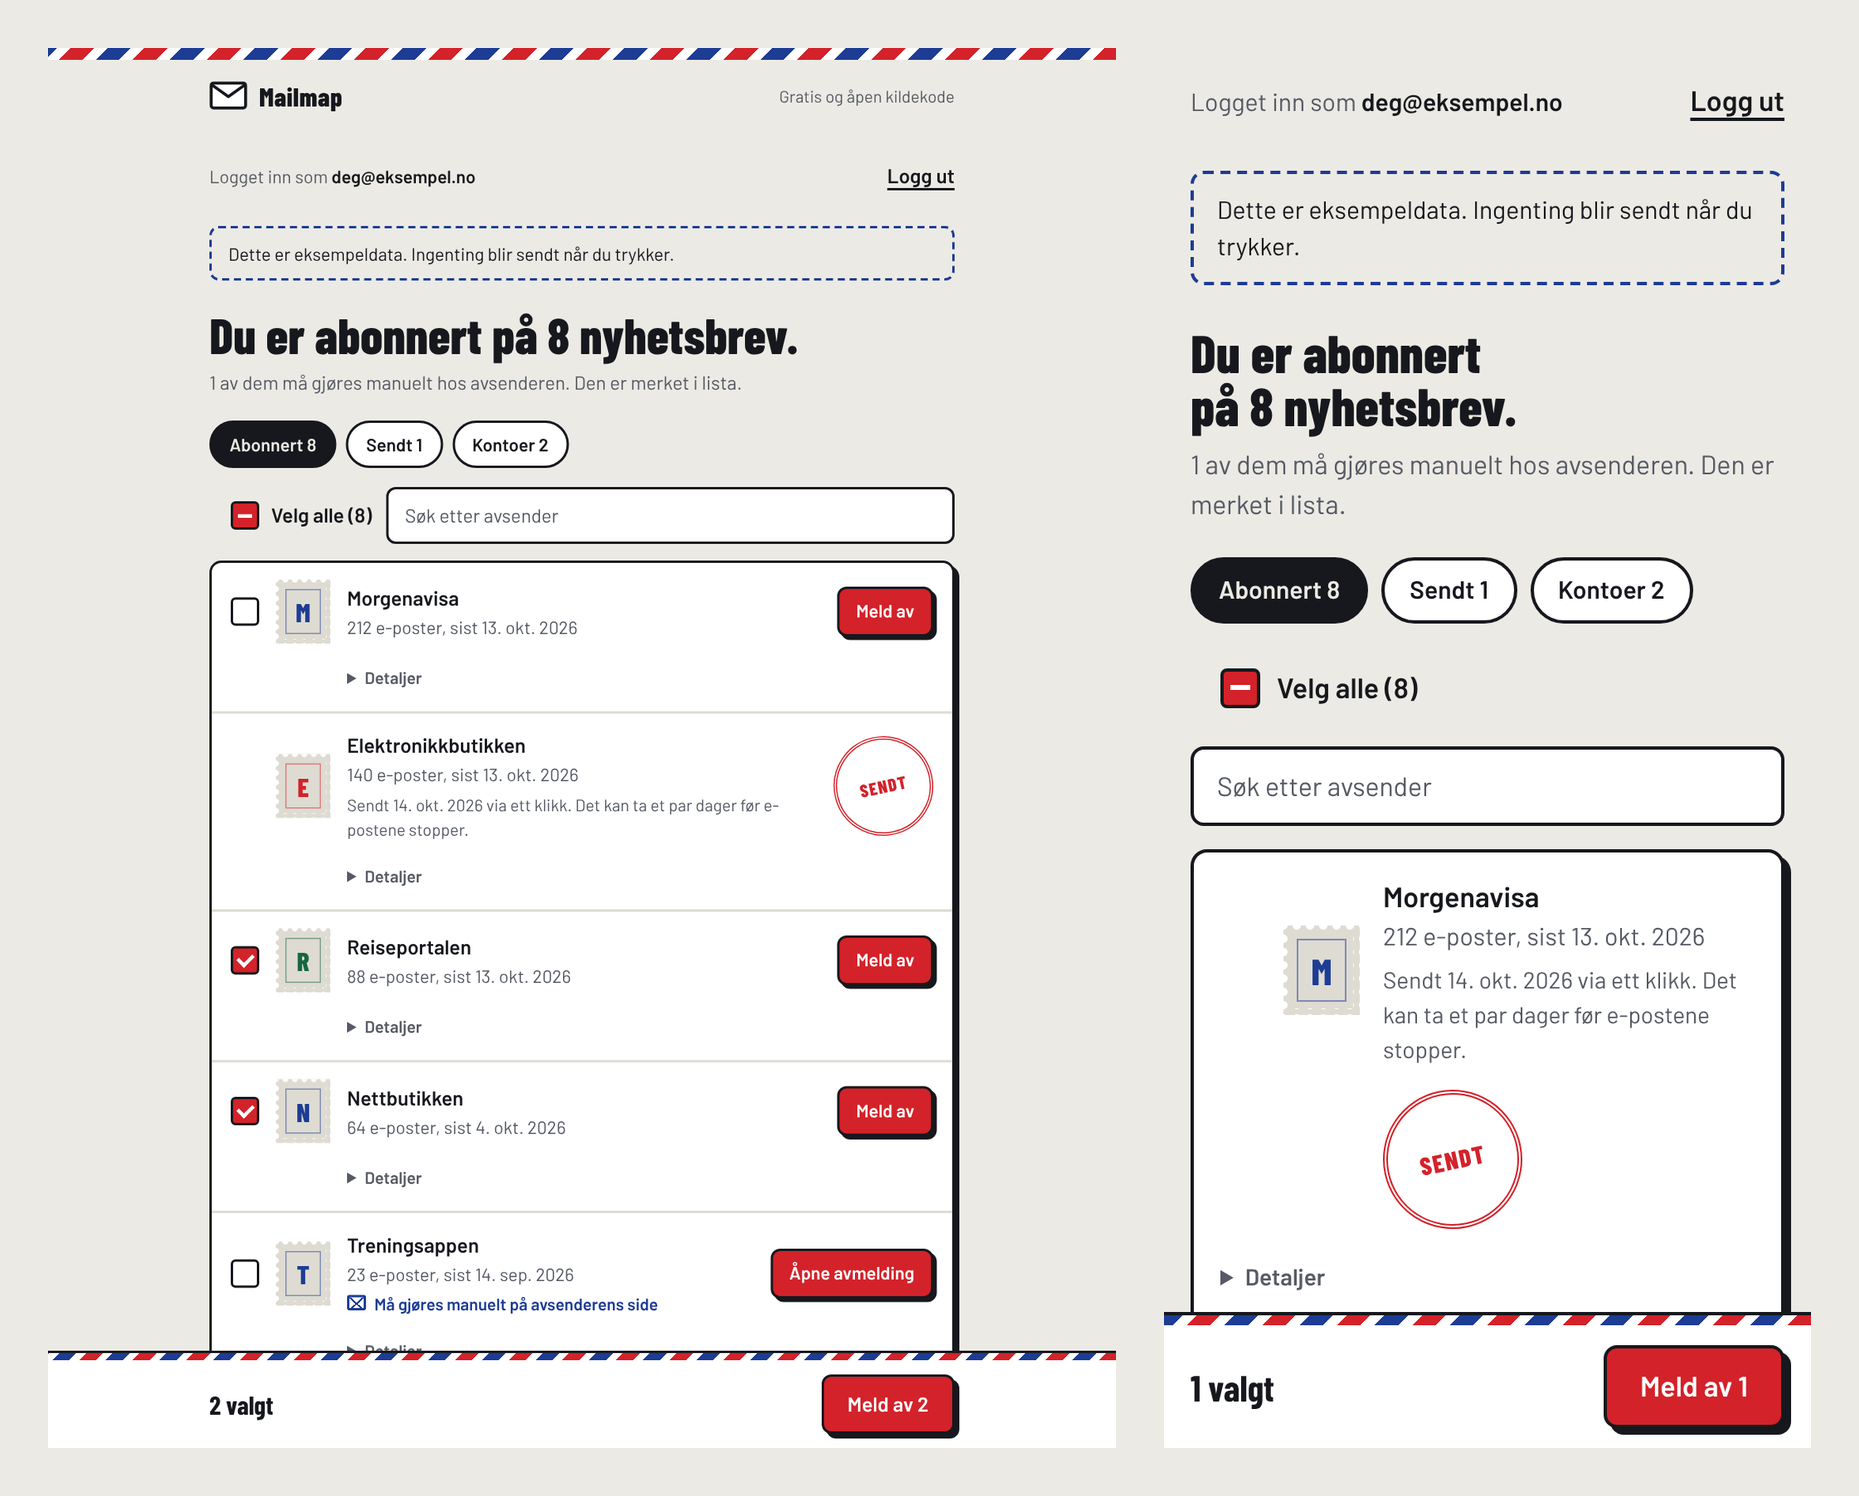
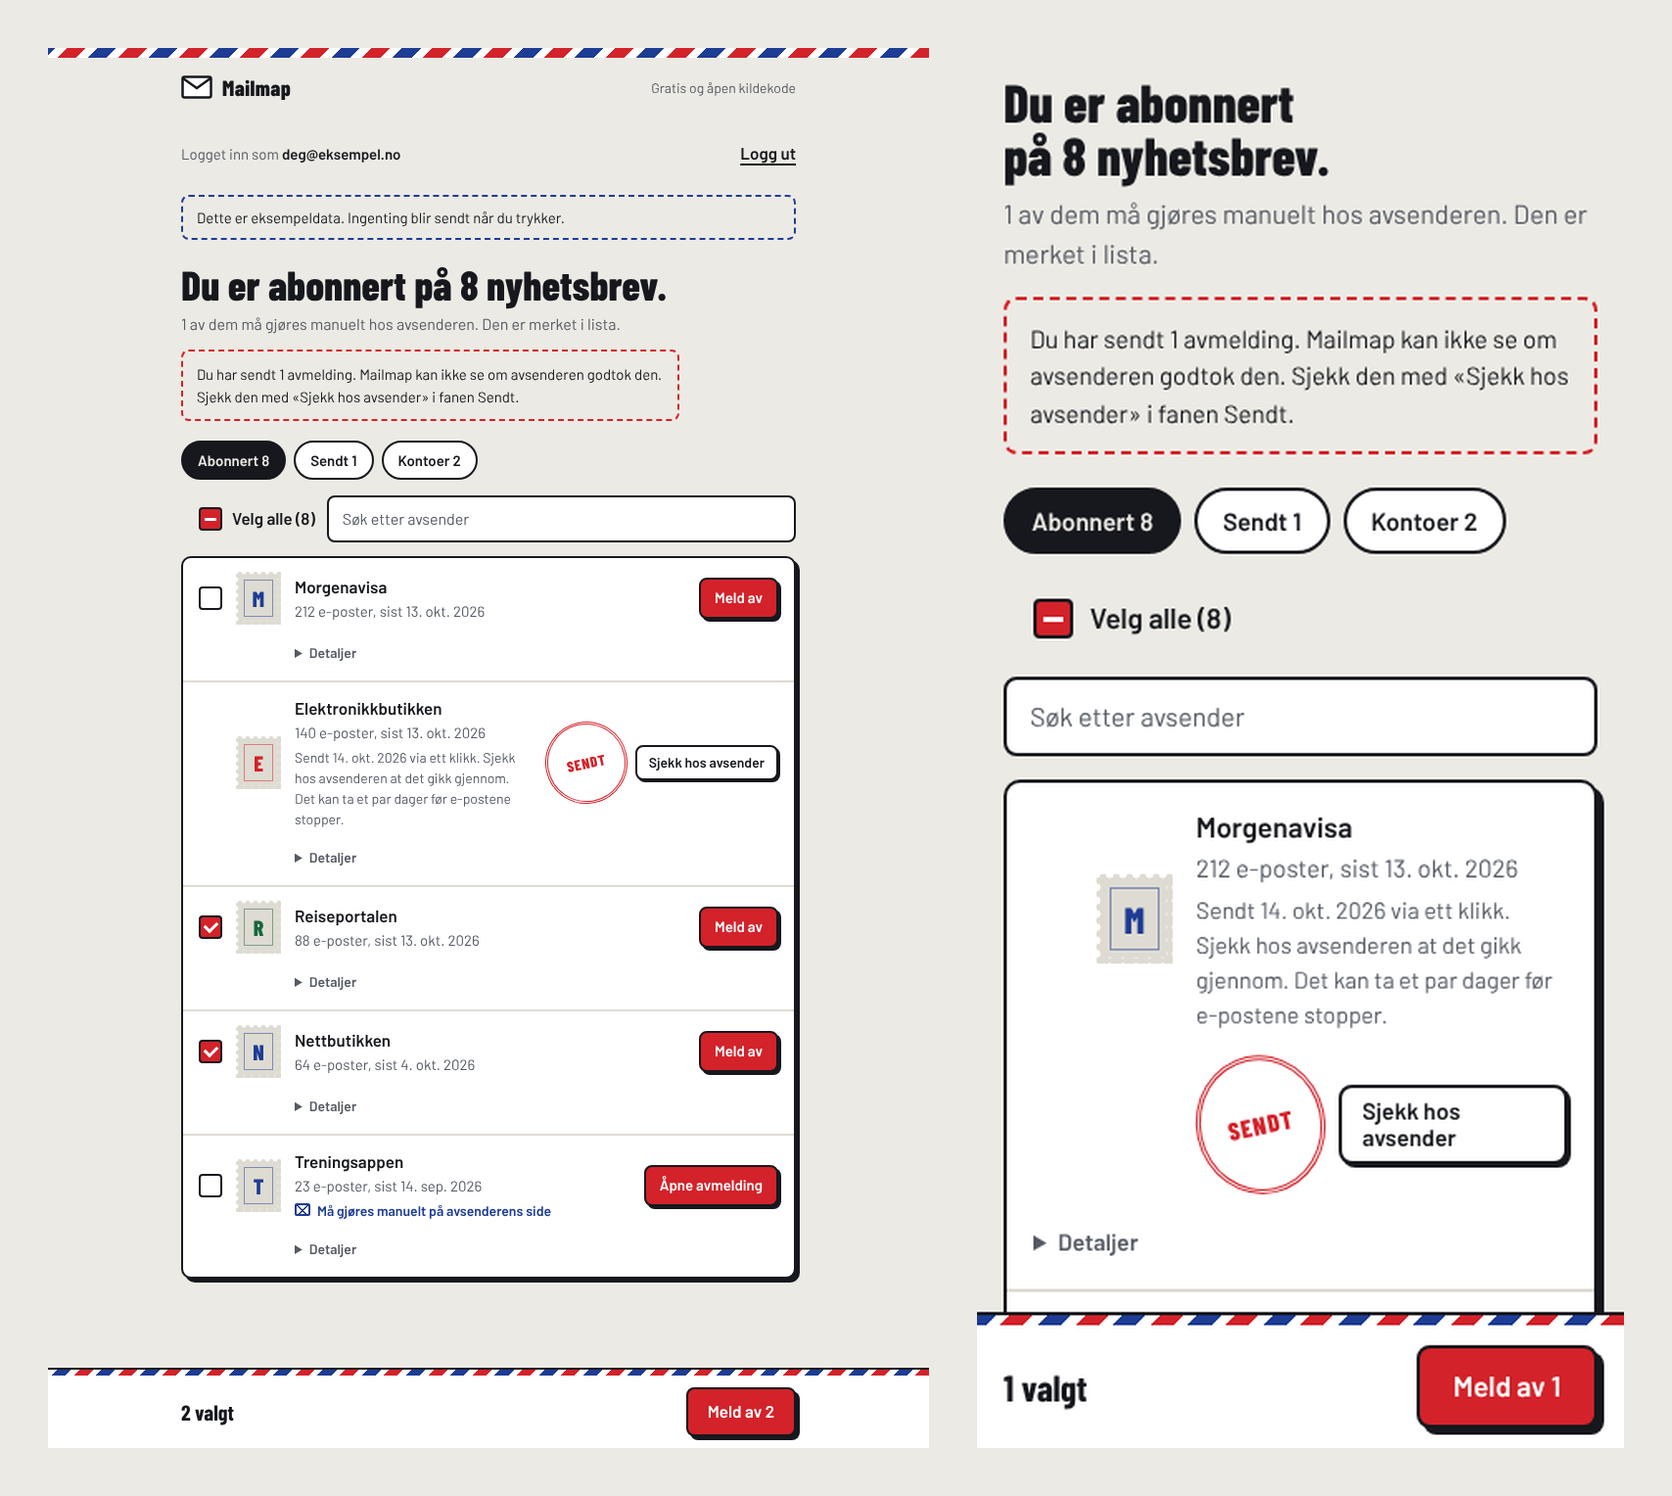
Position Mailmap as an overview first; ask the user to check each unsubscribe
- Landing: 'Alle nyhetsbrevene dine, samlet på ett sted', and say up front that
  some senders need confirmation on their own page
- After unsubscribing: banner and toast explaining that each sender should be
  checked, plus a visible 'Sjekk hos avsender' button on every sent row;
  checked senders are remembered
- Demo links are real anchors so they are keyboard reachable
- README intro and screenshots updated

Claude-Session: https://claude.ai/code/session_01XbGBdyfTHEKzCp5Y8JLQWF

Changed region(s): [[0.0311, 0.0307, 0.9641, 0.984], [0.9019, 0.0615, 0.9641, 0.0922]]

diff --git a/web/app.js b/web/app.js
@@ -364,6 +364,11 @@ function render(){
   $("manualNote").textContent = manualCount === 1
     ? "1 av dem må gjøres manuelt hos avsenderen. Den er merket i lista."
     : `${manualCount} av dem må gjøres manuelt hos avsenderen. De er merket i lista.`;
+  const unchecked = items.filter(s => state[s.id] === "done" && !stillSending(s) && sentLog[s.id] && !sentLog[s.id].checked && verdict(s) !== "quiet");
+  $("checkNote").hidden = !unchecked.length;
+  $("checkNote").textContent = unchecked.length === 1
+    ? "Du har sendt 1 avmelding. Mailmap kan ikke se om avsenderen godtok den. Sjekk den med «Sjekk hos avsender» i fanen Sendt."
+    : `Du har sendt ${unchecked.length} avmeldinger. Mailmap kan ikke se om hver avsender godtok dem. Sjekk hver enkelt med «Sjekk hos avsender» i fanen Sendt.`;
   const [a, b, c] = $("tabs").children;
   a.textContent = `Abonnert ${subs.length}`; b.textContent = `Sendt ${done.length}`; c.textContent = `Kontoer ${acc.length}`;
   [...$("tabs").children].forEach(x => x.setAttribute("aria-pressed", x.dataset.v === view));
@@ -414,17 +419,26 @@ function subRow(s){
   else if (isDone && e) {
     const v = verdict(s), via = (e.via || []).map(x => VIA[x]).filter(Boolean).join(" og ");
     const when = e.t ? `Sendt ${nb.format(e.t)}${via ? " via " + via : ""}. ` : "";
-    who.append(el("span", "note " + v, when + (v === "quiet" ? "Ingen nye e-poster siden." : v === "wait" ? "Det kan ta et par dager før e-postene stopper." : "")));
+    const tail = v === "quiet" ? "Ingen nye e-poster siden."
+      : e.checked ? "Du har sjekket hos avsenderen."
+      : "Sjekk hos avsenderen at det gikk gjennom. Det kan ta et par dager før e-postene stopper.";
+    who.append(el("span", "note " + (e.checked && v !== "quiet" ? "quiet" : v), when + tail));
   }
   const act = el("div","act");
   const pageLink = (label, cls) => {
     const a = el("a", "btn " + cls, label);
     if (href && session.provider !== Demo) { a.href = href; a.target = "_blank"; a.rel = "noopener noreferrer"; }
+    else a.href = "#";   // demo: keep it a real, keyboard-reachable link, but go nowhere
     a.onclick = ev => { if (session.provider === Demo) ev.preventDefault(); copyEmail(); };
     return a;
   };
   if (isDone) {
     act.append(el("span", fresh.has(s.id) ? "state" : "state still", "Sendt")); fresh.delete(s.id);
+    if (href && !(e && e.checked) && verdict(s) !== "quiet") {
+      const c = pageLink("Sjekk hos avsender", "small"), open = c.onclick;
+      c.onclick = ev => { open(ev); if (e) { e.checked = true; saveDone(); } stay.add(s.id); render(); };
+      act.append(c);
+    }
   } else if (st === "busy") act.append(el("span","state wait","Sender …"));
   else if (st === "fail") {
     act.append(el("span","state bad","Feilet"));
@@ -453,7 +467,7 @@ function subRow(s){
   if (e && e.t) row("Sendt", new Date(e.t).toLocaleString("nb-NO"));
   if (s.last) row("Siste e-post", new Date(s.last).toLocaleString("nb-NO"));
   det.append(sum, dl);
-  if (isDone && href) det.append(pageLink("Sjekk hos avsender", "small"));
+  if (isDone && href) det.append(pageLink("Åpne avsenderens side", "small"));
   const cp = el("button","btn small","Kopier detaljer");
   cp.onclick = async () => {
     const text = [...dl.children].reduce((acc, x, i, arr) => i % 2 ? acc : acc + x.textContent + ": " + arr[i+1].textContent + "\n", s.name + "\n");
@@ -493,7 +507,7 @@ async function run(list){
     saveDone(); render();
   });
   if (manual.length) toast(`${manual.length} avsender${manual.length === 1 ? "" : "e"} krever at du bekrefter på deres side. Trykk «Åpne avmelding» på dem.`);
-  else if (ok && !bad) toast(`Avmelding sendt til ${ok === 1 ? "1 avsender" : ok + " avsendere"}. Åpne Mailmap igjen om et par dager for å se om de har stoppet.`);
+  else if (ok && !bad) toast(`Avmelding sendt til ${ok === 1 ? "1 avsender" : ok + " avsendere"}. Sjekk hver enkelt hos avsenderen for å være sikker.`);
   else if (bad) toast(`${bad} feilet. Trykk «Prøv igjen».`);
 }
 

diff --git a/web/index.html b/web/index.html
@@ -131,6 +131,8 @@ h2{font:800 clamp(32px,7vw,42px)/1 var(--display);margin:0;text-wrap:balance}
 .who .manual::before{content:"";display:inline-block;width:12px;height:9px;margin-right:7px;vertical-align:0;border:2px solid var(--blue);border-radius:2px;
   background:linear-gradient(to bottom right,transparent 46%,var(--blue) 46% 54%,transparent 54%) ,linear-gradient(to bottom left,transparent 46%,var(--blue) 46% 54%,transparent 54%);background-size:100% 120%;background-repeat:no-repeat}
 .manualnote{margin:8px 0 0;font-size:16px;color:var(--mute)}
+.checknote{margin:14px 0 0;padding:12px 14px;border:2px dashed var(--red);border-radius:8px;font-size:15px;color:var(--ink);max-width:60ch}
+.act .btn.small{min-height:36px}
 .who .note.quiet{color:var(--ok);font-weight:600}
 .det{flex-basis:100%;margin-left:98px;font-size:14px;color:var(--mute)}
 .det summary{cursor:pointer;width:max-content;font-weight:600;color:var(--mute);padding:4px 0}
@@ -169,8 +171,8 @@ h2{font:800 clamp(32px,7vw,42px)/1 var(--display);margin:0;text-wrap:balance}
   <header class="mast"><span class="logo"><svg viewBox="0 0 32 24" aria-hidden="true"><rect x="1.5" y="1.5" width="29" height="21" rx="2" fill="var(--card)" stroke="var(--ink)" stroke-width="2.5"/><path d="M2 3l14 10L30 3" fill="none" stroke="var(--ink)" stroke-width="2.5" stroke-linejoin="round"/></svg>Mailmap</span><small>Gratis og åpen kildekode</small></header>
   <!-- 1. sign in -->
   <section id="vStart">
-    <h1>Rydd opp i nyhetsbrevene dine</h1>
-    <p class="lede">Logg inn med e&#8209;postkontoen din. Mailmap finner alt du er abonnert på, og du melder deg av med ett trykk.</p>
+    <h1>Alle nyhetsbrevene dine, samlet på ett sted</h1>
+    <p class="lede">Logg inn med e&#8209;postkontoen din. Mailmap samler alt du er abonnert på i én liste. Mange kan du melde deg av direkte herfra. Noen krever at du bekrefter på avsenderens egen side.</p>
     <div class="signin">
       <button class="btn line" id="gBtn">
         <svg viewBox="0 0 48 48" aria-hidden="true"><path fill="#EA4335" d="M24 9.5c3.5 0 6.6 1.2 9.1 3.6l6.8-6.8C35.8 2.4 30.3 0 24 0 14.6 0 6.6 5.4 2.7 13.3l7.9 6.1C12.5 13.6 17.8 9.5 24 9.5z"/><path fill="#4285F4" d="M46.5 24.5c0-1.6-.1-3.1-.4-4.5H24v9h12.7c-.6 3-2.3 5.5-4.8 7.2l7.7 6c4.5-4.2 6.9-10.3 6.9-17.7z"/><path fill="#FBBC05" d="M10.6 28.6c-.5-1.4-.8-3-.8-4.6s.3-3.2.8-4.6l-7.9-6.1C1 16.6 0 20.2 0 24s1 7.4 2.7 10.7l7.9-6.1z"/><path fill="#34A853" d="M24 48c6.5 0 11.9-2.1 15.9-5.8l-7.7-6c-2.2 1.5-5 2.3-8.2 2.3-6.2 0-11.5-4.1-13.4-9.8l-7.9 6.1C6.6 42.6 14.6 48 24 48z"/></svg>
@@ -203,6 +205,7 @@ h2{font:800 clamp(32px,7vw,42px)/1 var(--display);margin:0;text-wrap:balance}
     <p class="demo" id="demoNote" hidden>Dette er eksempeldata. Ingenting blir sendt når du trykker.</p>
     <h2 id="headline"></h2>
     <p class="manualnote" id="manualNote" hidden></p>
+    <p class="checknote" id="checkNote" hidden></p>
     <div class="tabs" id="tabs" role="group" aria-label="Vis">
       <button data-v="sub" aria-pressed="true"></button>
       <button data-v="done" aria-pressed="false"></button>
@@ -222,7 +225,7 @@ h2{font:800 clamp(32px,7vw,42px)/1 var(--display);margin:0;text-wrap:balance}
 </div>
 <div class="toast" id="toast" role="status"></div>
 
-<script src="config.js?v=e98664f4"></script>
-<script src="app.js?v=e98664f4"></script>
+<script src="config.js?v=ab7367ae"></script>
+<script src="app.js?v=ab7367ae"></script>
 </body>
 </html>

diff --git a/web/app.html b/web/app.html
@@ -126,6 +126,8 @@ h2{font:800 clamp(32px,7vw,42px)/1 var(--display);margin:0;text-wrap:balance}
 .who .manual::before{content:"";display:inline-block;width:12px;height:9px;margin-right:7px;vertical-align:0;border:2px solid var(--blue);border-radius:2px;
   background:linear-gradient(to bottom right,transparent 46%,var(--blue) 46% 54%,transparent 54%) ,linear-gradient(to bottom left,transparent 46%,var(--blue) 46% 54%,transparent 54%);background-size:100% 120%;background-repeat:no-repeat}
 .manualnote{margin:8px 0 0;font-size:16px;color:var(--mute)}
+.checknote{margin:14px 0 0;padding:12px 14px;border:2px dashed var(--red);border-radius:8px;font-size:15px;color:var(--ink);max-width:60ch}
+.act .btn.small{min-height:36px}
 .who .note.quiet{color:var(--ok);font-weight:600}
 .det{flex-basis:100%;margin-left:98px;font-size:14px;color:var(--mute)}
 .det summary{cursor:pointer;width:max-content;font-weight:600;color:var(--mute);padding:4px 0}
@@ -162,8 +164,8 @@ h2{font:800 clamp(32px,7vw,42px)/1 var(--display);margin:0;text-wrap:balance}
   <header class="mast"><span class="logo"><svg viewBox="0 0 32 24" aria-hidden="true"><rect x="1.5" y="1.5" width="29" height="21" rx="2" fill="var(--card)" stroke="var(--ink)" stroke-width="2.5"/><path d="M2 3l14 10L30 3" fill="none" stroke="var(--ink)" stroke-width="2.5" stroke-linejoin="round"/></svg>Mailmap</span><small>Gratis og åpen kildekode</small></header>
   <!-- 1. sign in -->
   <section id="vStart">
-    <h1>Rydd opp i nyhetsbrevene dine</h1>
-    <p class="lede">Logg inn med e&#8209;postkontoen din. Mailmap finner alt du er abonnert på, og du melder deg av med ett trykk.</p>
+    <h1>Alle nyhetsbrevene dine, samlet på ett sted</h1>
+    <p class="lede">Logg inn med e&#8209;postkontoen din. Mailmap samler alt du er abonnert på i én liste. Mange kan du melde deg av direkte herfra. Noen krever at du bekrefter på avsenderens egen side.</p>
     <div class="signin">
       <button class="btn line" id="gBtn">
         <svg viewBox="0 0 48 48" aria-hidden="true"><path fill="#EA4335" d="M24 9.5c3.5 0 6.6 1.2 9.1 3.6l6.8-6.8C35.8 2.4 30.3 0 24 0 14.6 0 6.6 5.4 2.7 13.3l7.9 6.1C12.5 13.6 17.8 9.5 24 9.5z"/><path fill="#4285F4" d="M46.5 24.5c0-1.6-.1-3.1-.4-4.5H24v9h12.7c-.6 3-2.3 5.5-4.8 7.2l7.7 6c4.5-4.2 6.9-10.3 6.9-17.7z"/><path fill="#FBBC05" d="M10.6 28.6c-.5-1.4-.8-3-.8-4.6s.3-3.2.8-4.6l-7.9-6.1C1 16.6 0 20.2 0 24s1 7.4 2.7 10.7l7.9-6.1z"/><path fill="#34A853" d="M24 48c6.5 0 11.9-2.1 15.9-5.8l-7.7-6c-2.2 1.5-5 2.3-8.2 2.3-6.2 0-11.5-4.1-13.4-9.8l-7.9 6.1C6.6 42.6 14.6 48 24 48z"/></svg>
@@ -196,6 +198,7 @@ h2{font:800 clamp(32px,7vw,42px)/1 var(--display);margin:0;text-wrap:balance}
     <p class="demo" id="demoNote" hidden>Dette er eksempeldata. Ingenting blir sendt når du trykker.</p>
     <h2 id="headline"></h2>
     <p class="manualnote" id="manualNote" hidden></p>
+    <p class="checknote" id="checkNote" hidden></p>
     <div class="tabs" id="tabs" role="group" aria-label="Vis">
       <button data-v="sub" aria-pressed="true"></button>
       <button data-v="done" aria-pressed="false"></button>

diff --git a/README.md b/README.md
@@ -1,7 +1,10 @@
 # mailmap
 
-**Logg inn med Google eller Microsoft, se alt du er abonnert på, og meld deg av med ett trykk.**
-*Sign in with Google or Microsoft, see every newsletter you're subscribed to, and unsubscribe in one click. No server – everything runs in your browser.*
+**Alle nyhetsbrevene dine, samlet på ett sted.** Logg inn med e-postkontoen din, og Mailmap lister opp alt du er
+abonnert på. Mange kan du melde deg av direkte herfra. Noen krever at du bekrefter på avsenderens egen side.
+
+*All your newsletters in one place. Sign in, see everything you're subscribed to, and unsubscribe – directly where the
+sender allows it, on the sender's own page where it doesn't. No server; everything runs in your browser.*
 
 **Prøv den:** [danishk918.github.io/Mailmap](https://danishk918.github.io/Mailmap/) – «Prøv uten å logge inn» viser en demo med eksempeldata.
 
@@ -21,8 +24,10 @@
      egne servere og er den mest robuste veien.
 5. **Avsendere uten automatisk avmelding** er merket «Må gjøres manuelt på avsenderens side». «Åpne avmelding»
    åpner siden deres og kopierer samtidig brukerens e-postadresse, så den kan limes inn der siden spør etter den.
-6. **Etterpå sjekker Mailmap selv om det virket.** Resultatet merkes «Sendt», ikke «Avmeldt», fordi nettleseren ikke
-   får lese avsenderens svar. Mailmap husker når hver avmelding ble sendt (lagret lokalt i nettleseren):
+6. **Hver avmelding bør sjekkes.** Resultatet merkes «Sendt», ikke «Avmeldt», fordi nettleseren ikke får lese
+   avsenderens svar. Mailmap sier dette rett ut etter avmelding, og hver avsender får en knapp
+   **«Sjekk hos avsender»** som åpner deres side. Når du har sjekket, merkes avsenderen «Du har sjekket hos avsenderen».
+   Mailmap husker også når hver avmelding ble sendt (lagret lokalt i nettleseren) og sjekker selv neste gang:
    - Ingen nye e-poster etter avmeldingen: «Ingen nye e-poster siden».
    - Nye e-poster mer enn to dager etter: «Sender fortsatt». Avsenderen legges tilbake øverst i lista, med knapp
      til avsenderens egen avmeldingsside.
